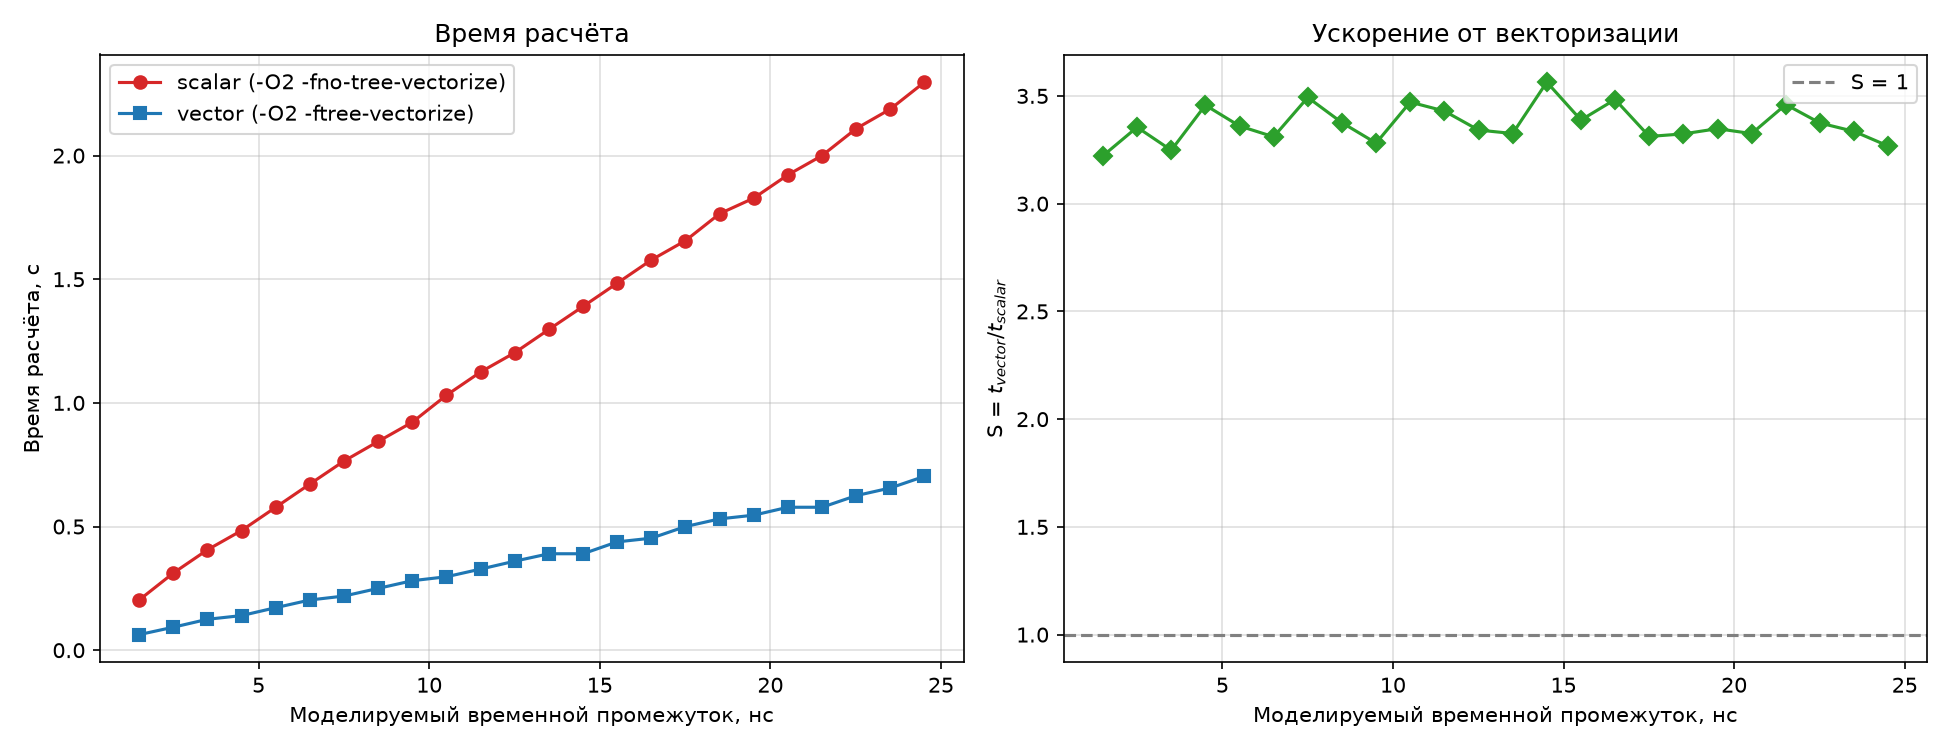
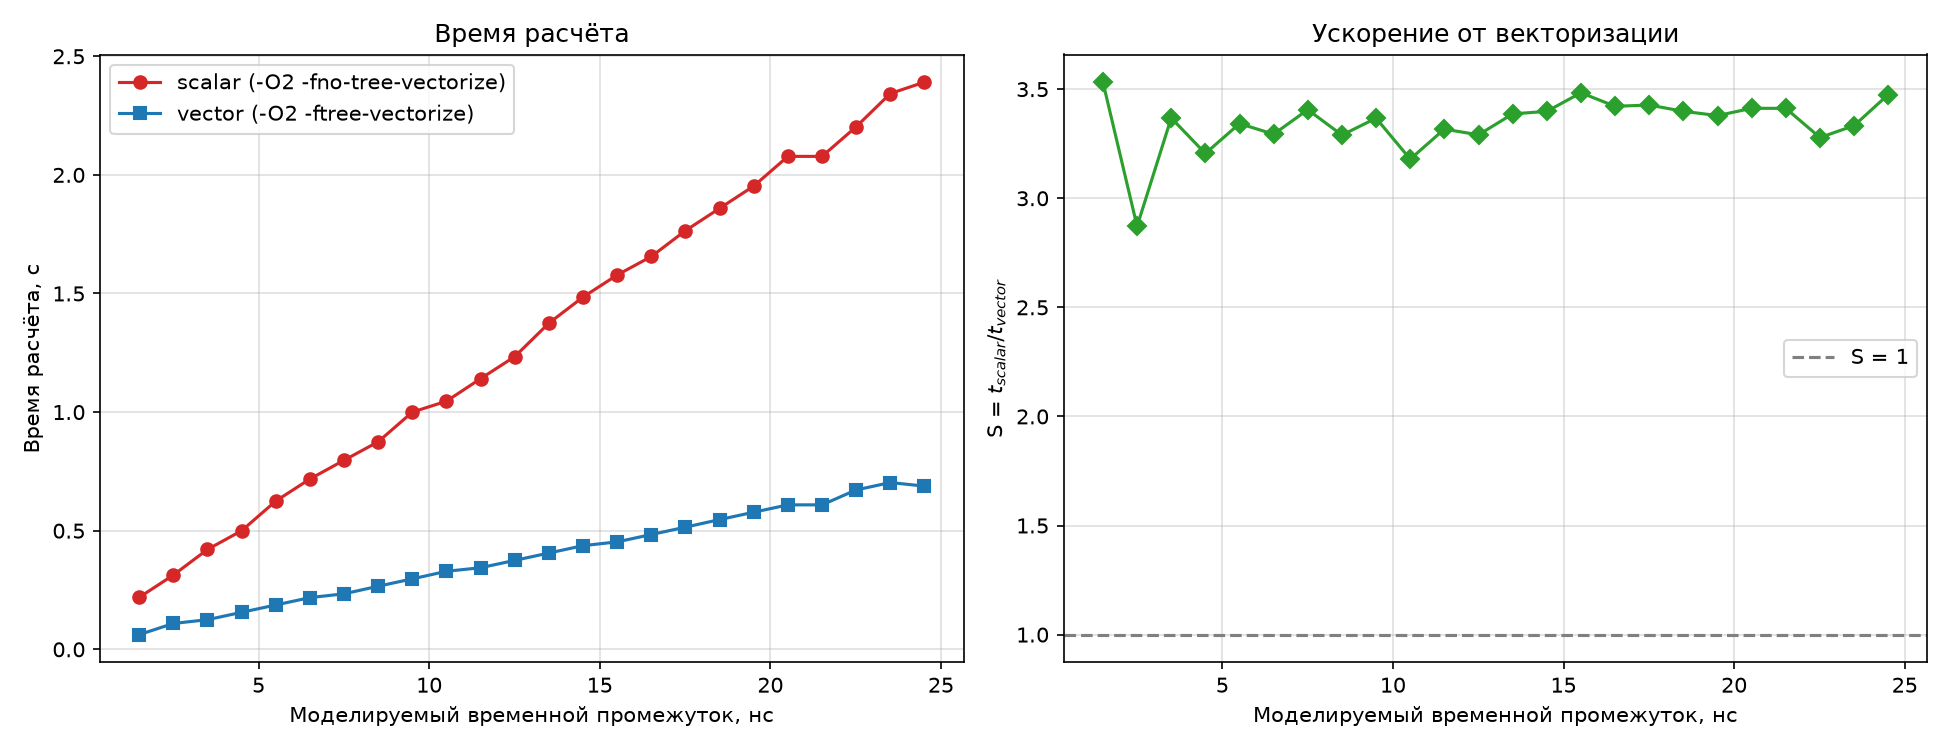
добавил реализацию 2D FDTD и сравнение векторизованной и скаялярной 2D версий

diff --git a/fdtd1d_fortran/results/plot_1d.py b/fdtd1d_fortran/results/plot_1d.py
@@ -1,0 +1,36 @@
+import matplotlib.pyplot as plt
+from matplotlib.animation import FuncAnimation
+import numpy as np
+
+with open('results/fields1d.bin', 'rb') as f:
+    ih   = np.fromfile(f, dtype=np.int32, count=1)[0]
+    nmax = np.fromfile(f, dtype=np.int32, count=1)[0]
+
+    x     = np.fromfile(f, dtype=np.float32, count=ih)
+    t     = np.fromfile(f, dtype=np.float32, count=nmax)
+    ez    = np.fromfile(f, dtype=np.float32, count=nmax*ih).reshape(nmax, ih)
+    ez_an = np.fromfile(f, dtype=np.float32, count=nmax*ih).reshape(nmax, ih)
+    hy    = np.fromfile(f, dtype=np.float32, count=nmax*ih).reshape(nmax, ih)
+    hy_an = np.fromfile(f, dtype=np.float32, count=nmax*ih).reshape(nmax, ih)
+
+fig, (ax1, ax2) = plt.subplots(2, 1, figsize=(10, 6))
+
+def update(k):
+    ax1.clear(); ax2.clear()
+
+    ax1.plot(x, ez[k, :],    'r-',  label='Одномерный метод Йи')
+    ax1.plot(x, ez_an[k, :], 'b--', label='Аналитическое решение')
+    ax1.set_ylabel('$E_z$')
+    ax1.set_ylim(-1, 1)
+    ax1.set_title(f't = {t[k]:.2f} нс')
+    ax1.legend(); ax1.grid(True)
+
+    ax2.plot(x, hy[k, :],    'g-',  label='Одномерный метод Йи')
+    ax2.plot(x, hy_an[k, :], 'm--', label= 'Аналитическое решение')
+    ax2.set_ylabel('$H_y$')
+    ax2.set_ylim(-3e-3, 3e-3)
+    ax2.set_xlabel('x (м)')
+    ax2.legend(); ax2.grid(True)
+
+ani = FuncAnimation(fig, update, frames=int(nmax), interval=50, repeat=True)
+plt.show()

diff --git a/fdtd2d_fortran/версия без анимации(часть 2)/benchmark.py b/fdtd2d_fortran/версия без анимации(часть 2)/benchmark.py
@@ -164,7 +164,7 @@ def plot_benchmark(rows, path):
     axes[1].axhline(1.0, color='gray', linestyle='--',
                     label='S = 1')
     axes[1].set_xlabel('Моделируемый временной промежуток, нс')
-    axes[1].set_ylabel('S = $t_{vector} / t_{scalar}$')
+    axes[1].set_ylabel('S = $t_{scalar} / t_{vector}$')
     axes[1].set_title('Ускорение от векторизации')
     axes[1].legend()
     axes[1].grid(True, alpha=0.4)
@@ -173,8 +173,6 @@ def plot_benchmark(rows, path):
     plt.savefig(path, dpi=150)
     plt.close(fig)
     print(f"график -> {path}")
-
-
 
 os.makedirs(RESULTS_DIR, exist_ok=True)
 
